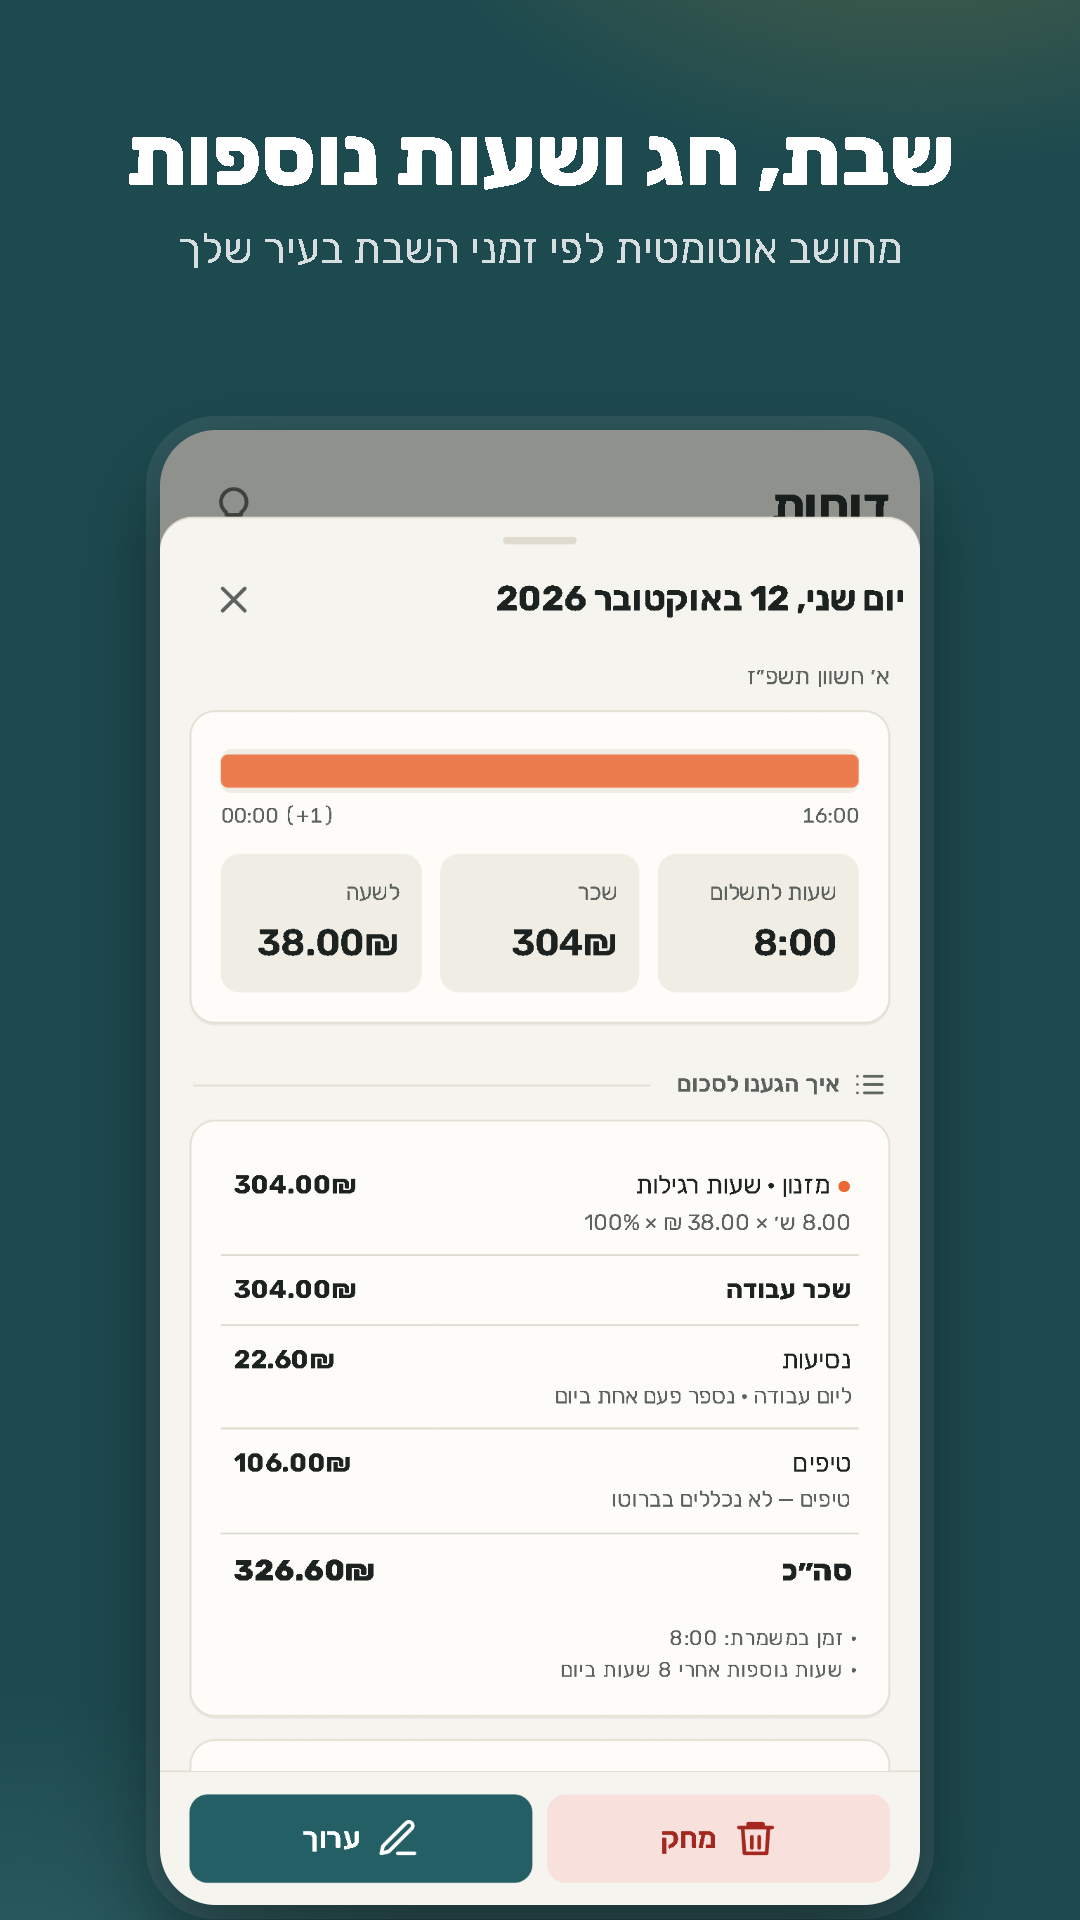
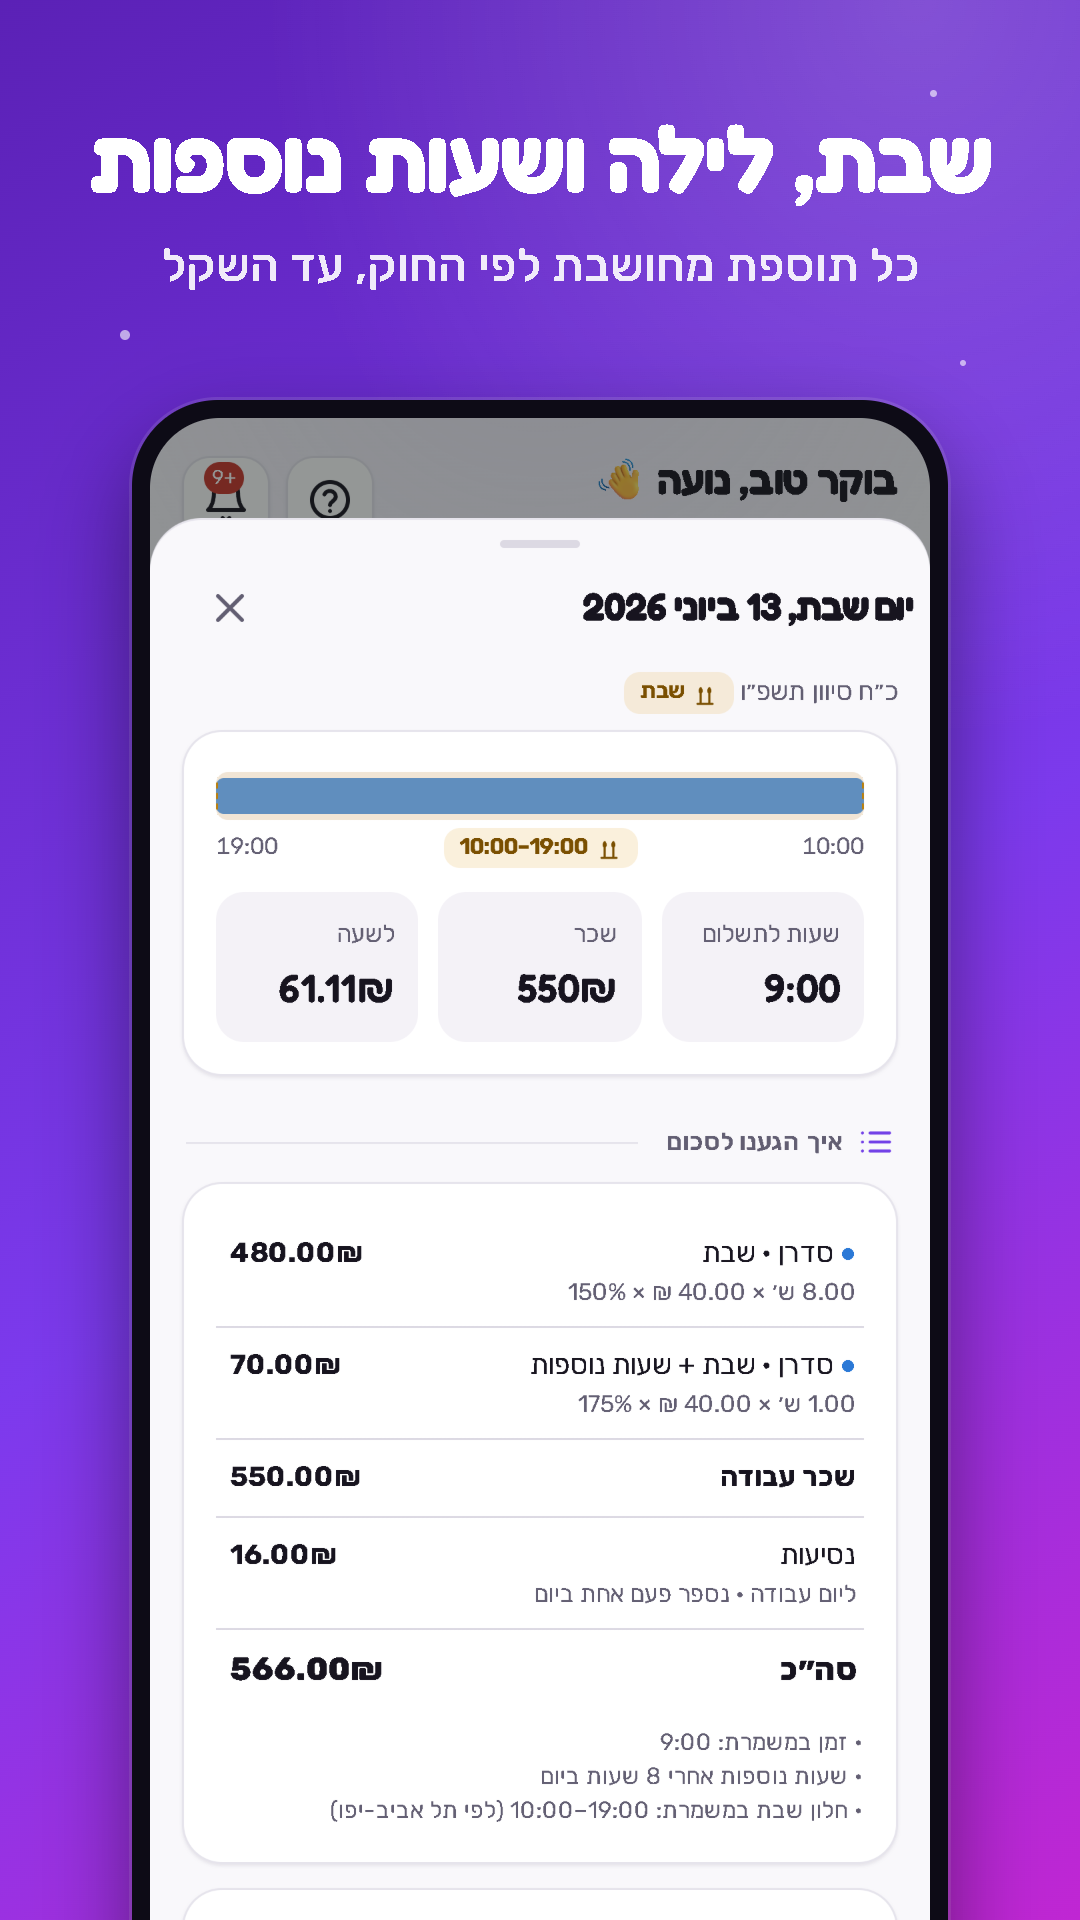
Store screenshots for the current app (8, 1080x1920)
The old ones showed the early teal design. New: home, a Shabbat shift's
breakdown, the payslip check, charts, rights, the champions table, the
advanced analysis and dark mode - each a real screen of 1.16.1 in a phone
frame under a headline, on the app's purple. The Play guide says 8 now.

diff --git a/store/PLAY_STORE.md b/store/PLAY_STORE.md
@@ -14,7 +14,7 @@
 | מפתח החתימה + הסיסמה | `C:\Users\User\ShiftPay-Android\keys\` (**לגבות! לא להעלות לשום מקום**) |
 | אייקון 512×512 | `store/icon-512.png` |
 | תמונת נושא 1024×500 | `store/feature-graphic.png` |
-| 7 צילומי מסך 1080×1920 | `store/screenshots/` |
+| 8 צילומי מסך 1080×1920 | `store/screenshots/` |
 | שם, תיאור קצר, תיאור מלא, "מה חדש" | `store/listing.md` |
 | מדיניות פרטיות | https://leelor123.github.io/shifts/privacy.html |
 | דף מחיקת חשבון | https://leelor123.github.io/shifts/delete-account.html |
@@ -141,7 +141,7 @@ The app requires signing in with a Google account. Any Google account works; no 
 1. **שם / תיאור קצר / תיאור מלא** — להעתיק מ-`store/listing.md`.
 2. **אייקון** — `store/icon-512.png`
 3. **תמונת נושא (Feature graphic)** — `store/feature-graphic.png`
-4. **צילומי מסך של טלפון** — כל 7 הקבצים מ-`store/screenshots/` לפי הסדר.
+4. **צילומי מסך של טלפון** — כל 8 הקבצים מ-`store/screenshots/` לפי הסדר.
 5. (לא חובה) טאבלט — אפשר לדלג.
 6. שומרים.
 
